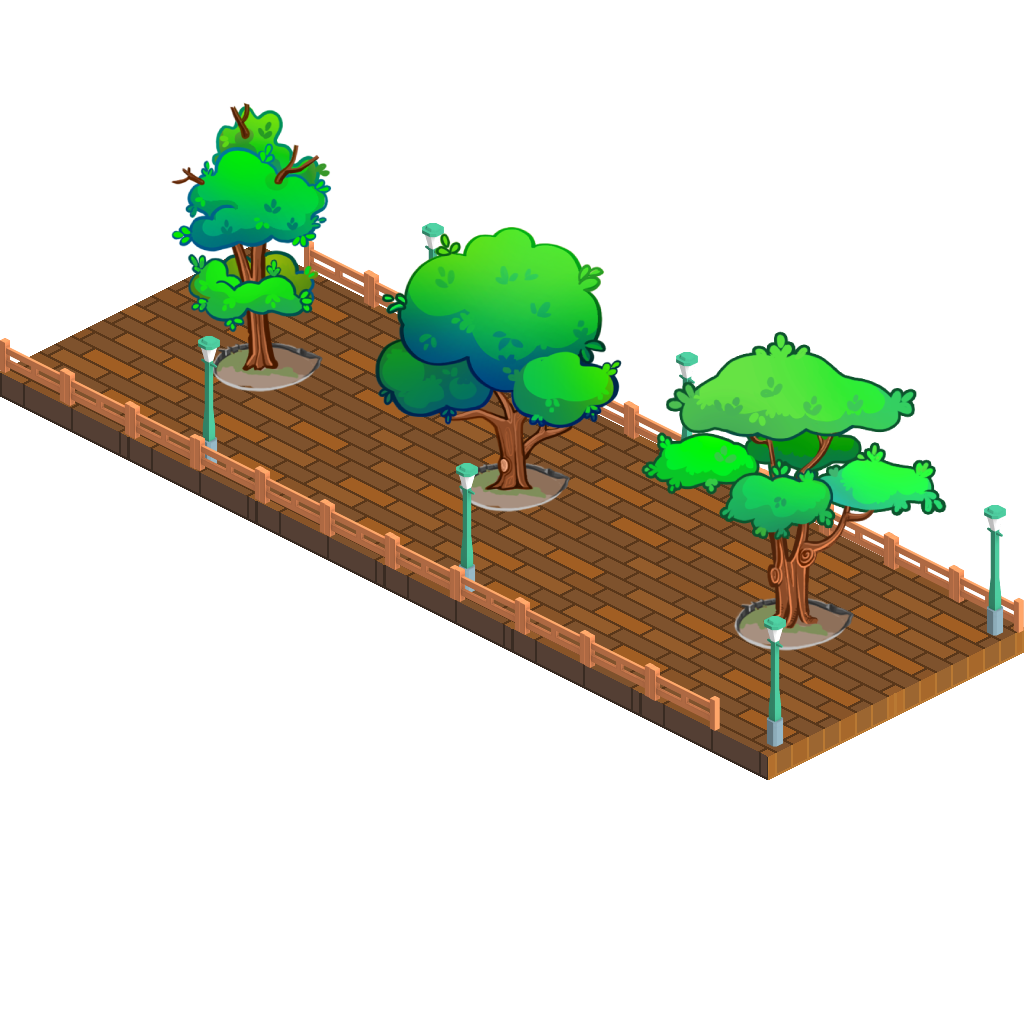
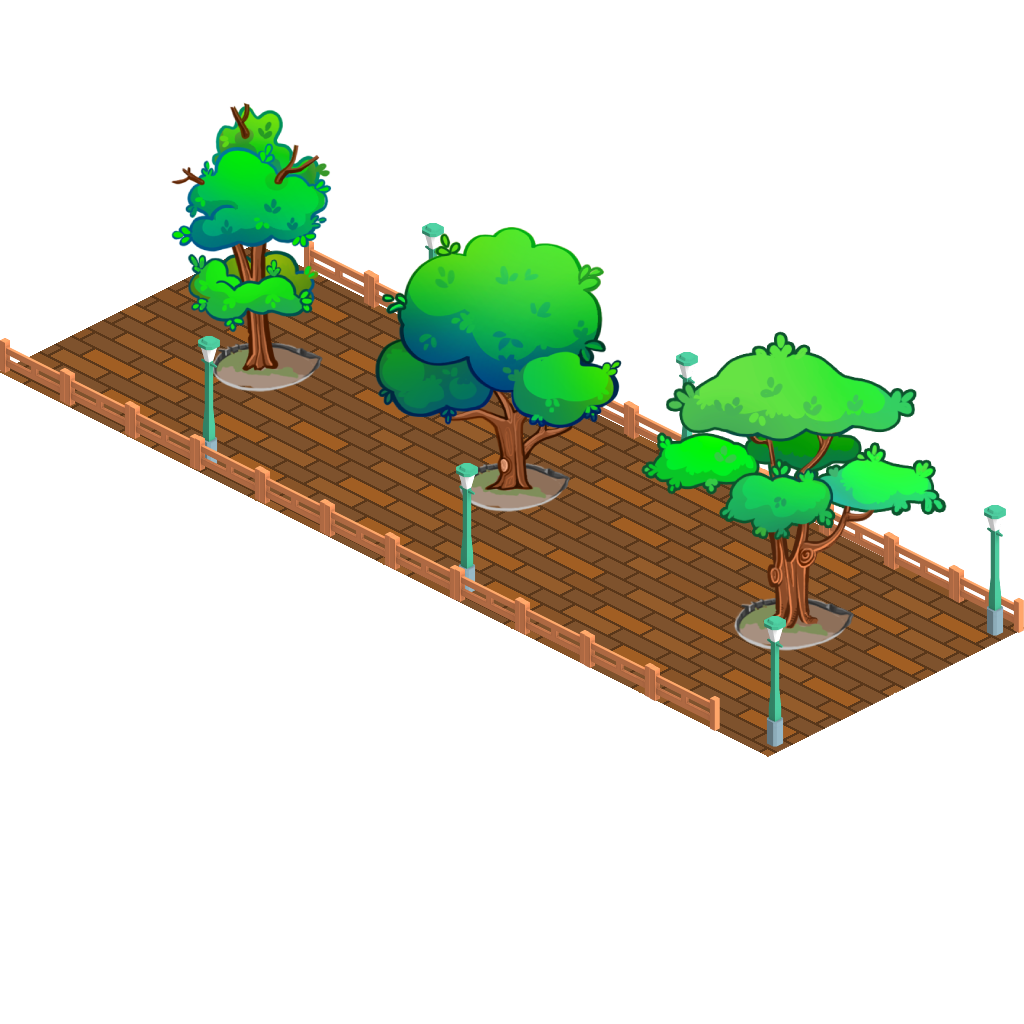
road side walk graphics changed

Changed region(s): [[0.0, 0.3438, 1.0, 0.7812]]

diff --git a/src/GameScene.ts b/src/GameScene.ts
@@ -889,7 +889,7 @@ export class GameScene extends Container implements IScene {
 
 	//#region SideWalks
 
-	private sideWalkXyAdjustment: number = 170;
+	private sideWalkXyAdjustment: number = 190;
 
 	private sideWalkWidth: number = 750;
 	private sideWalkHeight: number = 750;
@@ -980,7 +980,7 @@ export class GameScene extends Container implements IScene {
 			if (gameObject) {
 				gameObject.reset();
 				gameObject.x = gameObject.width * -1;
-				gameObject.y = -1250;
+				gameObject.y = -1230;
 				gameObject.enableRendering();
 				this.sideWalkPopDelayBottom = this.sideWalkPopDelayDefault;
 			}
